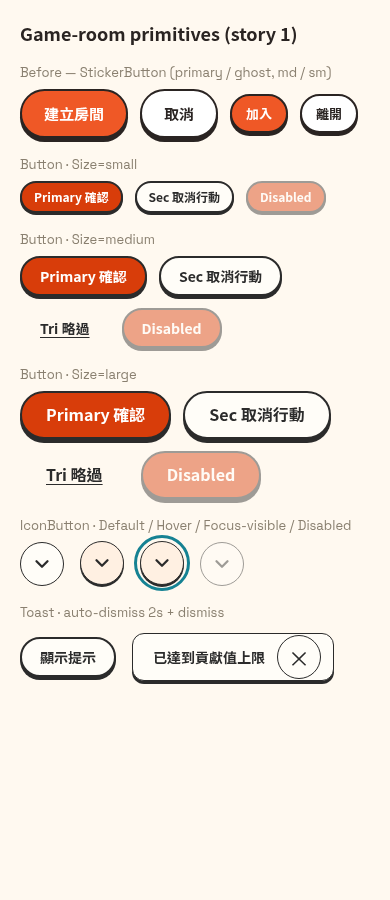
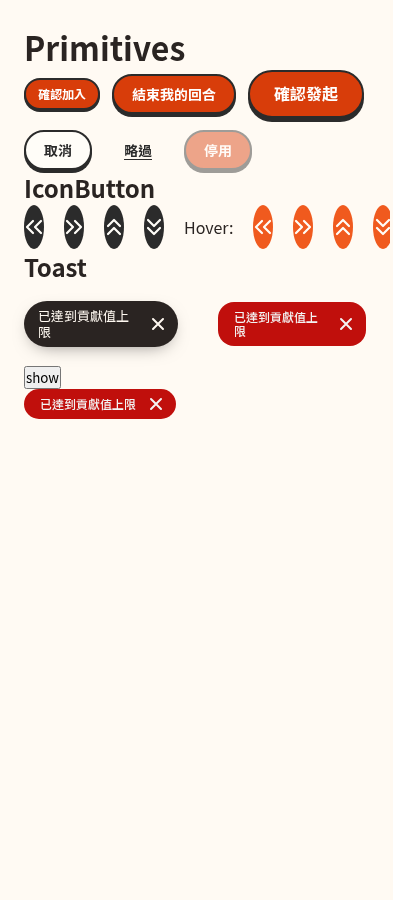
feat(webapp): toast tones and double-chevron arrow buttons

diff --git a/packages/webapp/src/components/design/GameRoomPrimitives.test.tsx b/packages/webapp/src/components/design/GameRoomPrimitives.test.tsx
@@ -3,7 +3,7 @@
  */
 import React from 'react';
 import { act, fireEvent, render, screen } from '@testing-library/react';
-import { Button, IconButton, Toast, TOAST_DURATION_MS } from '@/components/design';
+import { Button, DoubleChevron, IconButton, Toast, TOAST_DURATION_MS } from '@/components/design';
 import type { ButtonProps } from '@/components/design';
 
 describe('Button', () => {
@@ -62,6 +62,39 @@ describe('IconButton', () => {
     expect(screen.getByTestId('icon').parentElement?.getAttribute('aria-hidden')).toBe('true');
     fireEvent.click(button);
     expect(onClick).toHaveBeenCalledTimes(1);
+  });
+});
+
+describe('DoubleChevron', () => {
+  it.each(['left', 'right', 'up', 'down'] as const)('renders a decorative %s chevron', (direction) => {
+    const { container } = render(<DoubleChevron direction={direction} />);
+    const svg = container.querySelector('svg')!;
+    expect(svg.getAttribute('aria-hidden')).toBe('true');
+    expect(svg.getAttribute('focusable')).toBe('false');
+    expect(svg.getAttribute('data-direction')).toBe(direction);
+    expect(svg.querySelectorAll('path')).toHaveLength(2);
+    expect(svg.getAttribute('stroke')).toBe('currentColor');
+  });
+
+  it('rotates one path per direction', () => {
+    const rotations = (['right', 'down', 'left', 'up'] as const).map((direction) => {
+      const { container, unmount } = render(<DoubleChevron direction={direction} />);
+      const transform = container.querySelector('svg')!.style.transform;
+      unmount();
+      return transform;
+    });
+    expect(rotations).toEqual(['rotate(0deg)', 'rotate(90deg)', 'rotate(180deg)', 'rotate(270deg)']);
+  });
+
+  it('keeps the IconButton accessible name with a chevron child', () => {
+    render(
+      <IconButton label="展開 Hover">
+        <DoubleChevron direction="up" />
+      </IconButton>,
+    );
+    const button = screen.getByRole('button', { name: '展開 Hover' });
+    expect(button.querySelector('.gr-icon-btn__icon')?.getAttribute('aria-hidden')).toBe('true');
+    expect(button.getAttribute('title')).toBe('展開 Hover');
   });
 });
 
@@ -137,5 +170,37 @@ describe('Toast', () => {
     unmount();
     act(() => jest.advanceTimersByTime(TOAST_DURATION_MS));
     expect(onClose).not.toHaveBeenCalled();
+  });
+
+  it('defaults to the default (black) tone', () => {
+    render(<Toast open onClose={jest.fn()}>msg</Toast>);
+    const toast = screen.getByRole('status').parentElement!;
+    expect(toast.classList.contains('gr-toast')).toBe(true);
+    expect(toast.classList.contains('gr-toast--default')).toBe(true);
+    expect(toast.getAttribute('data-tone')).toBe('default');
+  });
+
+  it.each(['default', 'alert'] as const)('%s tone auto-hides after 2s and can be dismissed', (tone) => {
+    const onClose = jest.fn();
+    const { unmount } = render(<Toast open tone={tone} onClose={onClose}>已達到貢獻值上限</Toast>);
+    const toast = screen.getByRole('status').parentElement!;
+    expect(toast.classList.contains(`gr-toast--${tone}`)).toBe(true);
+    expect(toast.getAttribute('data-tone')).toBe(tone);
+    act(() => jest.advanceTimersByTime(TOAST_DURATION_MS));
+    expect(onClose).toHaveBeenCalledTimes(1);
+    unmount();
+
+    const onClose2 = jest.fn();
+    render(<Toast open tone={tone} onClose={onClose2}>msg</Toast>);
+    const dismiss = screen.getByRole('button', { name: '關閉提示' });
+    expect(dismiss.querySelector('svg')?.getAttribute('aria-hidden')).toBe('true');
+    fireEvent.click(dismiss);
+    expect(onClose2).toHaveBeenCalledTimes(1);
+  });
+
+  it('keeps the live region mounted with no tone class while closed', () => {
+    render(<Toast open={false} tone="alert" onClose={jest.fn()}>msg</Toast>);
+    const region = screen.getByRole('status');
+    expect(region.parentElement?.className).toBe('');
   });
 });

diff --git a/packages/webapp/src/app/globals.css b/packages/webapp/src/app/globals.css
@@ -608,6 +608,7 @@ body:has(.modal[open]) {
   --gr-text-secondary: #8a8070;
   --gr-bg-light: #fffdf8;
   --gr-bg-dk: #fff0e2;
+  --gr-orange-hover: #f05a1e; /* prototype --focus; Figma IconButton Hover */
 }
 
 .gr-btn {
@@ -699,56 +700,93 @@ body:has(.modal[open]) {
   cursor: not-allowed;
 }
 
+/* Figma IconButton (110-359): Default = ink disc + cream double chevron,
+   Hover = orange disc (--gr-orange-hover). Grid + line-height 0 centre
+   the SVG exactly (same fix as .job-remove). ::after keeps a 44px hit area
+   when a modifier shrinks the visible disc. */
 .gr-icon-btn {
-  display: inline-flex;
-  align-items: center;
-  justify-content: center;
+  position: relative;
+  display: grid;
+  place-items: center;
   width: 44px;
   height: 44px;
   padding: 0;
-  border: 1.5px solid var(--gr-ink);
-  border-radius: 999px;
-  background: var(--gr-bg-light);
-  color: var(--gr-ink);
+  border: 0;
+  border-radius: 50%;
+  background: var(--gr-ink);
+  color: var(--gr-bg-light);
+  line-height: 0;
   cursor: pointer;
-  transition: transform 0.08s ease, box-shadow 0.08s ease, background-color 0.12s ease;
+  transition: transform 0.08s ease, background-color 0.12s ease;
 }
 .gr-icon-btn__icon {
-  display: inline-flex;
-  font-size: 22px;
-  line-height: 1;
+  display: grid;
+  place-items: center;
+  line-height: 0;
+}
+.gr-icon-btn__icon > svg {
+  display: block;
 }
 .gr-icon-btn:not(:disabled):hover,
 .gr-icon-btn:focus-visible {
-  background: var(--gr-bg-dk);
-  box-shadow: 0 2px 0 var(--gr-ink);
-  transform: translateY(-1px);
+  background: var(--gr-orange-hover);
 }
 .gr-icon-btn:disabled {
   opacity: 0.45;
   cursor: not-allowed;
 }
 
+/* Toast tones. default = prototype .hint (black notice), alert = .alert-pill
+   (Figma 貢獻專案1.1.3 node 148-794 / Frame 39 Notification-Alert). */
 .gr-toast {
   display: inline-flex;
   align-items: center;
   justify-content: center;
-  gap: 12px;
-  min-width: 186px;
-  min-height: 48px;
-  padding: 0 12px 0 20px;
-  border: 1.5px solid var(--gr-ink);
-  border-radius: 12px;
-  background: var(--gr-bg-light);
-  color: var(--gr-ink);
+  gap: 8px;
   font-family: var(--font-zh);
-  font-weight: 700;
-  font-size: 14px;
-  box-shadow: 0 3px 0 var(--gr-ink);
   animation: gr-toast-in 0.16s ease-out;
 }
-.gr-toast > .gr-icon-btn {
+.gr-toast--default {
+  padding: 7px 8px 7px 14px;
+  border-radius: 99px;
+  background: var(--ink);
+  color: var(--paper);
+  font-size: 13px;
+  line-height: 16px;
+  box-shadow: 0 6px 18px -8px rgba(0, 0, 0, 0.5);
+}
+.gr-toast--alert {
+  padding: 8px 8px 8px 16px;
+  border-radius: 16px;
+  background: #c00f0c;
+  color: #f3f3f3;
+  font-size: 12px;
+  font-weight: 500;
+  line-height: 14px;
+}
+/* Dismiss: a 24px translucent disc inside the pill with a 44px ::after hit
+   area; negative margins stop it growing the pill. The ring is light and
+   inset so it stays visible on the dark and red grounds. */
+.gr-toast .gr-toast__dismiss {
   flex-shrink: 0;
+  width: 24px;
+  height: 24px;
+  margin: -5px 0;
+  background: transparent;
+  color: inherit;
+}
+.gr-toast .gr-toast__dismiss::after {
+  content: '';
+  position: absolute;
+  inset: -10px;
+}
+.gr-toast .gr-toast__dismiss:not(:disabled):hover,
+.gr-toast .gr-toast__dismiss:focus-visible {
+  background: rgba(255, 255, 255, 0.22);
+}
+.gr-toast .gr-toast__dismiss:focus-visible {
+  outline: 2px solid #fff;
+  outline-offset: 1px;
 }
 @keyframes gr-toast-in {
   from {

diff --git a/packages/webapp/src/components/design/Toast.tsx b/packages/webapp/src/components/design/Toast.tsx
@@ -2,9 +2,12 @@
 
 import { CSSProperties, ReactNode, useEffect, useRef } from 'react';
 import IconButton from '@/components/design/IconButton';
+import CloseIcon from '@/components/design/CloseIcon';
 
 /** Figma annotation on Frame 22: 跳出貢獻上限提示 / 2秒後消失. */
 export const TOAST_DURATION_MS = 2000;
+
+export type ToastTone = 'default' | 'alert';
 
 export type ToastProps = {
   open: boolean;
@@ -13,6 +16,8 @@ export type ToastProps = {
   /** Change on each trigger to restart the timer and re-announce an open toast. */
   resetKey?: string | number;
   children: ReactNode;
+  /** `default` is the black notice (prototype .hint); `alert` is the red rule alert (.alert-pill). */
+  tone?: ToastTone;
   duration?: number;
   className?: string;
   style?: CSSProperties;
@@ -28,6 +33,7 @@ export default function Toast({
   onClose,
   resetKey,
   children,
+  tone = 'default',
   duration = TOAST_DURATION_MS,
   className,
   style,
@@ -52,13 +58,15 @@ export default function Toast({
 
   return (
     <div className={className} style={style}>
-      <div className={open ? 'gr-toast' : undefined}>
+      <div className={open ? `gr-toast gr-toast--${tone}` : undefined} data-tone={open ? tone : undefined}>
         <span role="status" aria-live="polite" aria-atomic="true">
           {/* Replacing the message node re-announces identical notices. */}
           {open ? <span key={resetKey}>{children}</span> : null}
         </span>
         {open ? (
-          <IconButton label="關閉提示" onClick={dismiss}>×</IconButton>
+          <IconButton label="關閉提示" className="gr-toast__dismiss" onClick={dismiss}>
+            <CloseIcon />
+          </IconButton>
         ) : null}
       </div>
     </div>

diff --git a/packages/webapp/src/components/design/DoubleChevron.tsx b/packages/webapp/src/components/design/DoubleChevron.tsx
@@ -1,0 +1,38 @@
+export type ChevronDirection = 'left' | 'right' | 'up' | 'down';
+
+export type DoubleChevronProps = {
+  direction: ChevronDirection;
+  /** Rendered width and height in px. */
+  size?: number;
+  className?: string;
+};
+
+const ROTATION: Record<ChevronDirection, number> = { right: 0, down: 90, left: 180, up: 270 };
+
+/**
+ * Figma UI原則 IconButton glyph: a double chevron (》 ︾ 《 ︽). One right-pointing
+ * path rotated about the centre of a square viewBox, so every direction shares
+ * the same optical centre. Decorative; the owning button supplies the name.
+ */
+export default function DoubleChevron({ direction, size = 20, className }: DoubleChevronProps) {
+  return (
+    <svg
+      className={className}
+      width={size}
+      height={size}
+      viewBox="0 0 20 20"
+      fill="none"
+      stroke="currentColor"
+      strokeWidth={2.2}
+      strokeLinecap="round"
+      strokeLinejoin="round"
+      aria-hidden="true"
+      focusable="false"
+      data-direction={direction}
+      style={{ display: 'block', transform: `rotate(${ROTATION[direction]}deg)` }}
+    >
+      <path d="M3 4 L9 10 L3 16" />
+      <path d="M11 4 L17 10 L11 16" />
+    </svg>
+  );
+}

diff --git a/packages/webapp/src/components/design/index.ts b/packages/webapp/src/components/design/index.ts
@@ -16,5 +16,7 @@ export { default as Button } from './Button';
 export type { ButtonProps, ButtonSize, ButtonVariant } from './Button';
 export { default as IconButton } from './IconButton';
 export type { IconButtonProps } from './IconButton';
+export { default as DoubleChevron } from './DoubleChevron';
+export type { ChevronDirection, DoubleChevronProps } from './DoubleChevron';
 export { default as Toast, TOAST_DURATION_MS } from './Toast';
-export type { ToastProps } from './Toast';
+export type { ToastProps, ToastTone } from './Toast';

diff --git a/packages/webapp/src/components/design/CloseIcon.tsx b/packages/webapp/src/components/design/CloseIcon.tsx
@@ -1,0 +1,19 @@
+/** Inline × for close controls; same grid-centred SVG approach as DoubleChevron. */
+export default function CloseIcon({ size = 14 }: { size?: number }) {
+  return (
+    <svg
+      width={size}
+      height={size}
+      viewBox="0 0 14 14"
+      fill="none"
+      stroke="currentColor"
+      strokeWidth={2}
+      strokeLinecap="round"
+      aria-hidden="true"
+      focusable="false"
+      style={{ display: 'block' }}
+    >
+      <path d="M2 2 L12 12 M12 2 L2 12" />
+    </svg>
+  );
+}
